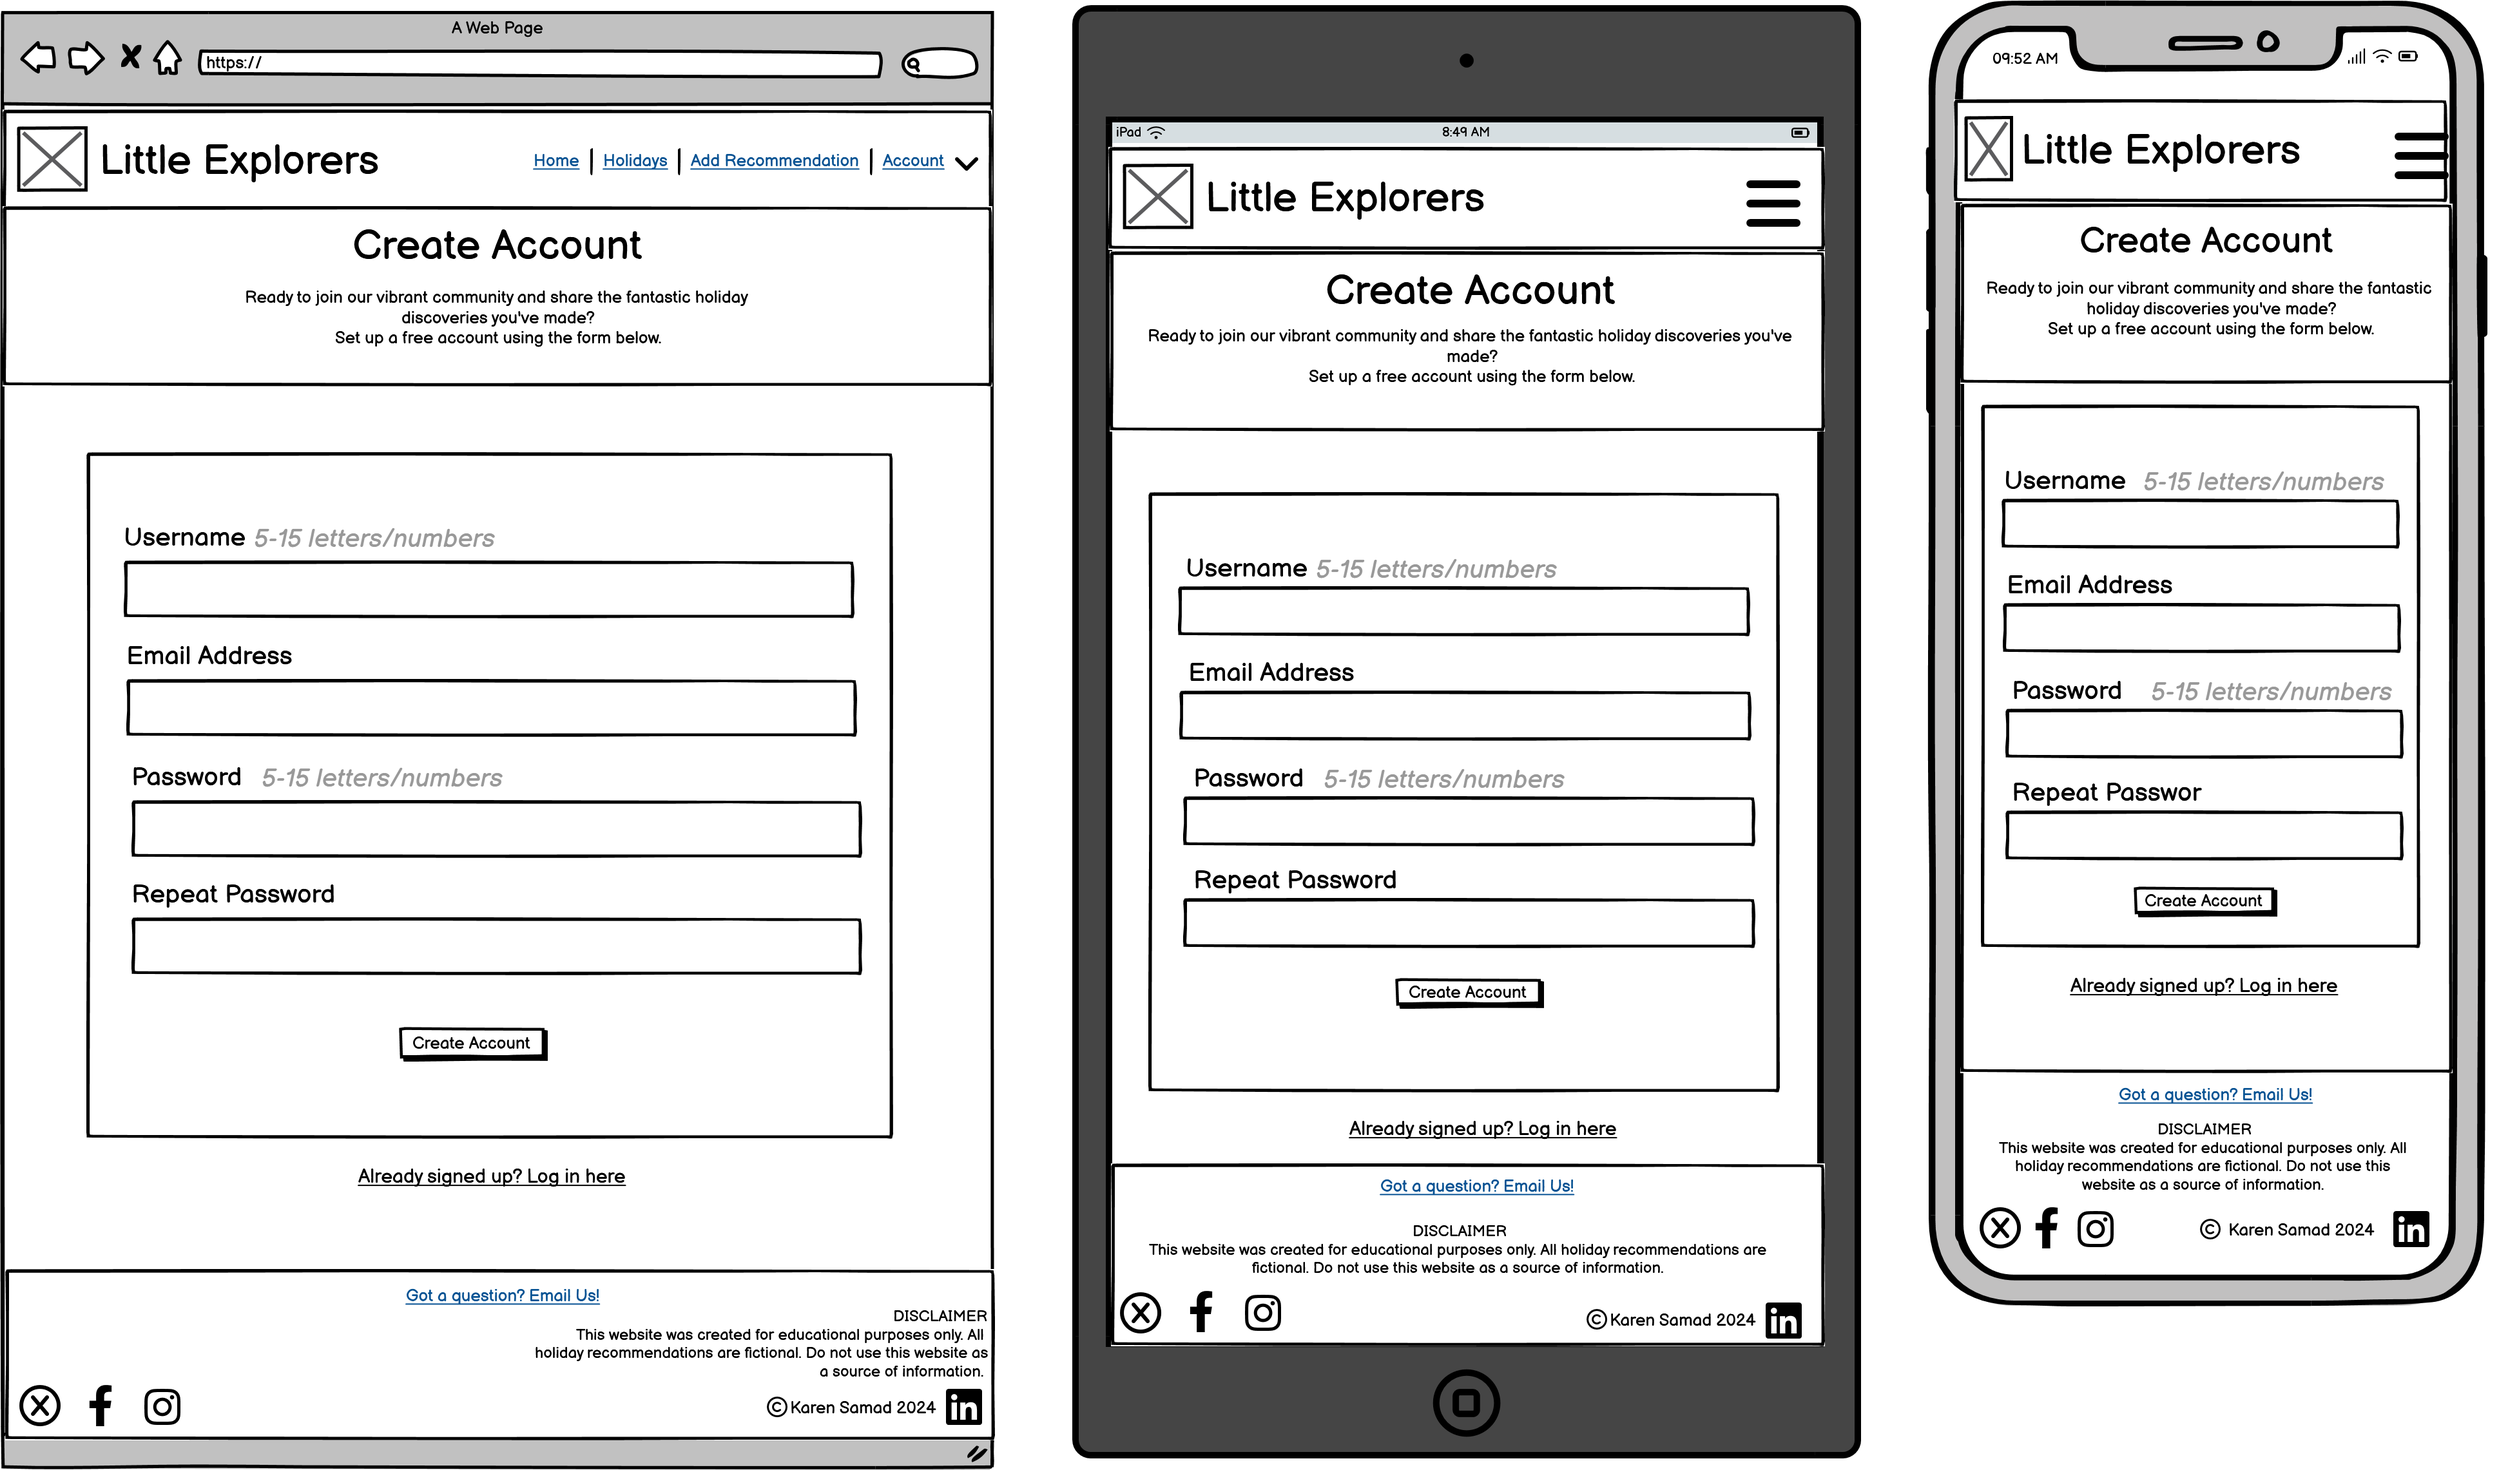
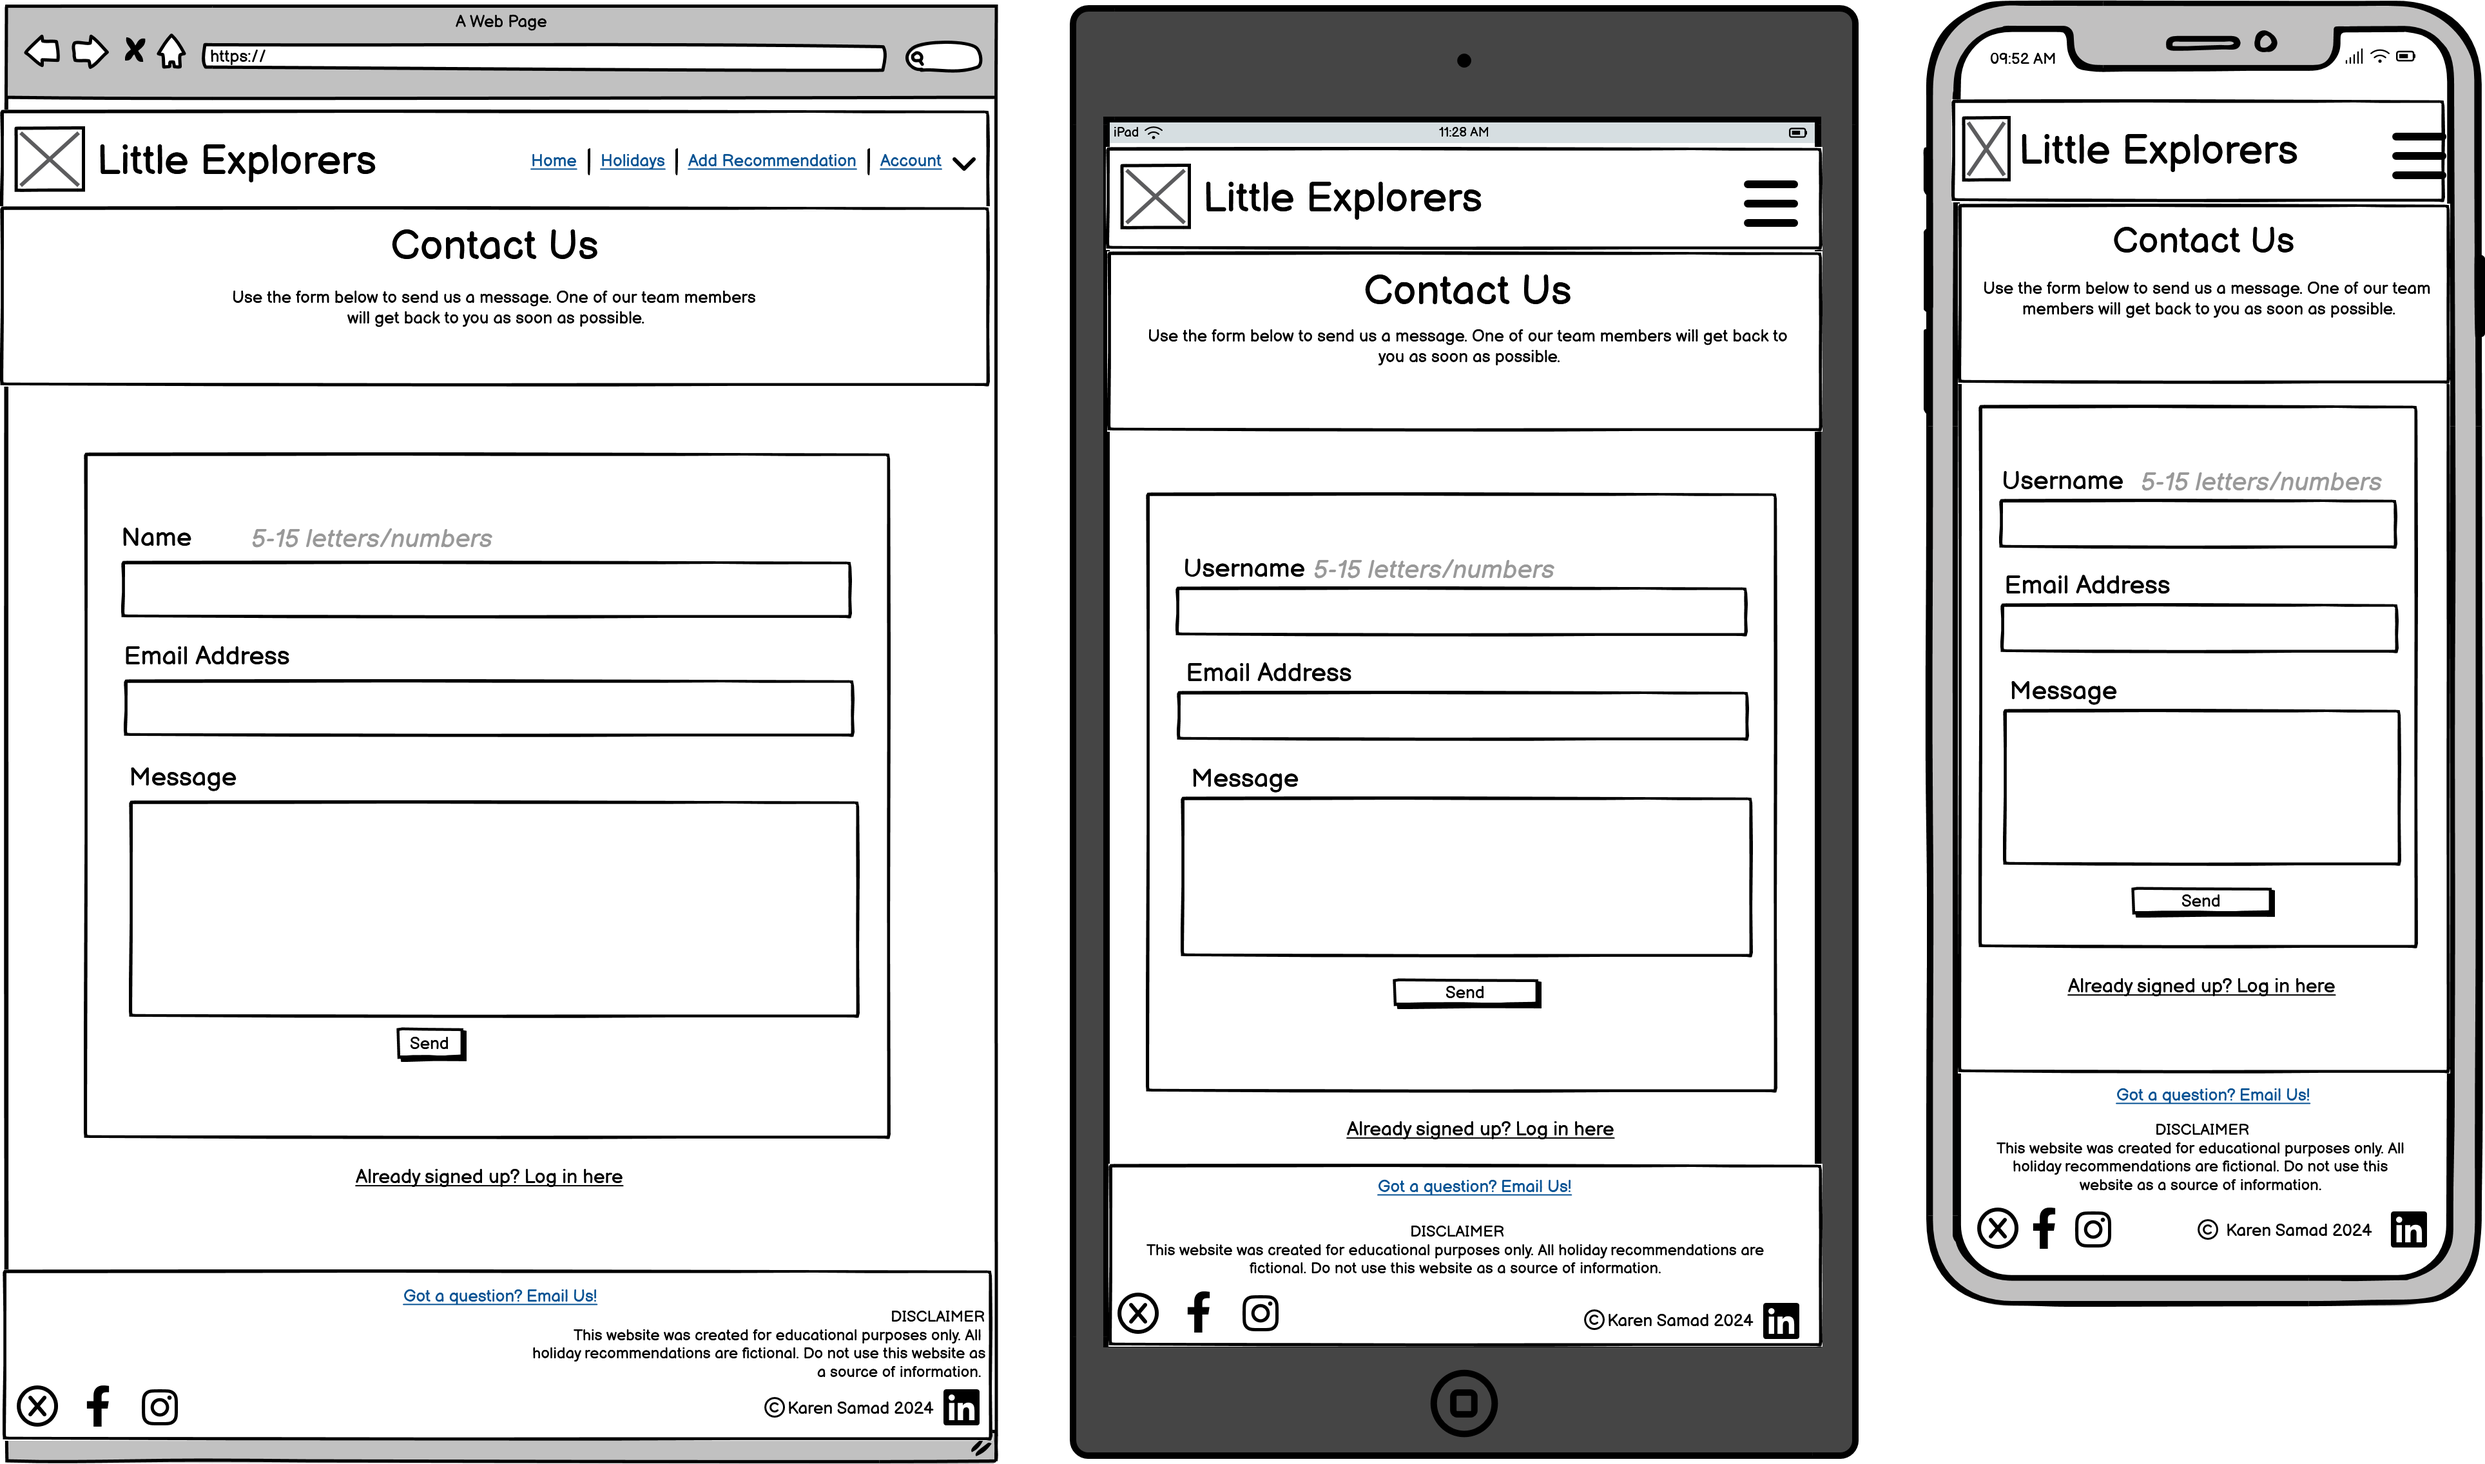
Contact form with styling.

diff --git a/taskmanager/templates/contact.html b/taskmanager/templates/contact.html
@@ -1,0 +1,55 @@
+{% extends "base.html" %}
+{% block content %}
+
+<!-- banner -->
+<div class="bg-dgreen">
+    <div class="container center-align heading-banner">
+        <h1 class="fira-600 white-text">Contact Us</h1>
+        <div>
+            <p class="white-text">
+                Use the form below to send us a message. One of our team members will get back to you as soon as
+                possible.
+            </p>
+        </div>
+    </div>
+</div>
+
+<div class="container col s10 bg-dgrey contact-container">
+    <div class="row">
+        <form class="col s12">
+            <!-- Name field -->
+            <div class="row">
+                <div class="input-field col s12">
+                    <input id="first_name" type="text" minlength="3" maxlength="25" class="validate" required>
+                    <label for="first_name">Name</label>
+                </div>
+            </div>
+            <!-- Email address field -->
+            <div class="row">
+                <div class="input-field col s12">
+                    <input id="email_address" name="email_address" type="text" minlength="3" maxlength="25" class="validate" required>
+                    <label for="email_address">Email</label>
+                </div>
+            </div>           
+            <!-- Message field -->
+            <div class="row">
+                <div class="input-field col s12">
+                    <textarea id="textarea1" class="materialize-textarea" maxlength="500" type="text"
+                    required></textarea>
+                    <label for="textarea1">Message (max 500 characters)</label>
+                </div>
+            </div>
+            <!-- Send button -->
+            <div class="col s12 center-align">
+                <button type="submit" class="col s8 offset-s2 m6 offset-m3 l3 offset-l4 btn-large btn-dgreen form-submit-button">Send
+                </button>
+            </div>
+        </form>
+    </div>
+</div>
+
+
+
+
+
+{% endblock %}

diff --git a/taskmanager/static/css/style.css b/taskmanager/static/css/style.css
@@ -44,6 +44,8 @@ main {
 
 .bg-dgreen{ background-color: #04724D;}
 
+.bg-dgrey{ background-color: #beddea;}
+
 .btn-orange{
   background-color:#FF914D;
 }
@@ -60,6 +62,10 @@ main {
 
 .btn-blue:hover{
   background-color: #FF914D;
+}
+
+.heading-banner {
+  padding: 1% 0;
 }
 
 /* Navbar */
@@ -172,6 +178,36 @@ font-weight: 600;
   z-index: 1; 
   color: white; }
 
+  /* Contact Page */
+
+.contact-container{padding: 5%;
+margin:2% auto}
+
+/* CSS modifications for Materialize form */
+  
+/* label color */
+  .input-field label {
+    color: #000;
+  }
+
+   /* label focus color */
+   .input-field input[type=text]:focus + label {
+    color: #04724D;
+  }
+
+   /* label underline focus color */
+   .input-field input[type=text]:focus {
+    border-bottom: 1px solid #04724D;  
+    box-shadow: 0 1px 0 0 #04724D;
+  }
+
+    /* valid color */
+    .input-field input[type=text].valid {
+      border-bottom: 1px solid #04724D;
+      box-shadow: 0 1px 0 0 #04724D;
+    }
+
+  
 
 
 /* Footer */

diff --git a/taskmanager/templates/base.html b/taskmanager/templates/base.html
@@ -78,7 +78,7 @@
             <div class="row">
                 <div class="col s12">
                     <h4 class="center-align">
-                        <a href="" class="white-text">GOT A QUESTION? EMAIL US!</a></h4>
+                        <a href="{{ url_for('contact') }}" class="white-text">GOT A QUESTION? EMAIL US!</a></h4>
                 </div>
             </div>
             <div class="row">

diff --git a/taskmanager/static/js/script.js b/taskmanager/static/js/script.js
@@ -2,7 +2,9 @@ document.addEventListener('DOMContentLoaded', function() {
     // sidenav initialisation
     var sidenav = document.querySelectorAll('.sidenav');
      M.Sidenav.init(sidenav);
-
+// dropdown initialisation
     var dropdown = document.querySelectorAll('.dropdown-trigger');
     M.Dropdown.init(dropdown);
-  });
+
+})
+    

diff --git a/taskmanager/routes.py b/taskmanager/routes.py
@@ -8,3 +8,7 @@ from taskmanager.models import Holiday, Recommendation
 @app.route("/")
 def home():
     return render_template("index.html")
+
+@app.route('/contact')
+def contact():
+    return render_template('contact.html')
